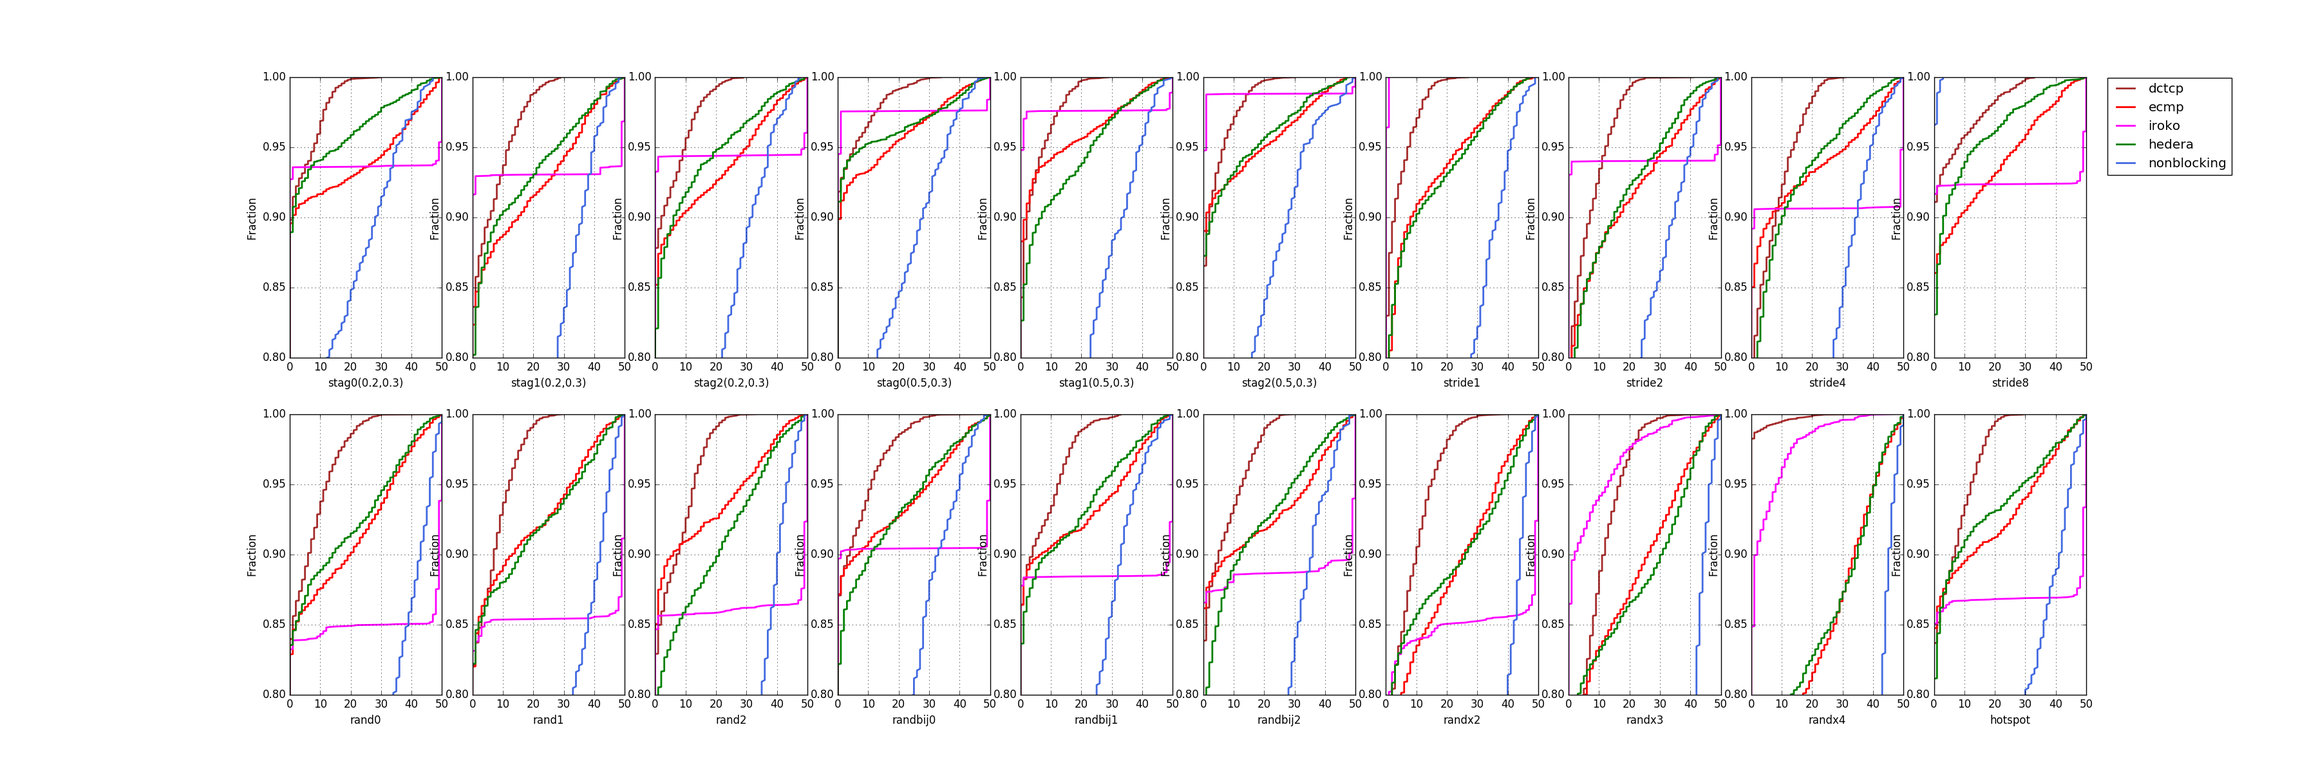
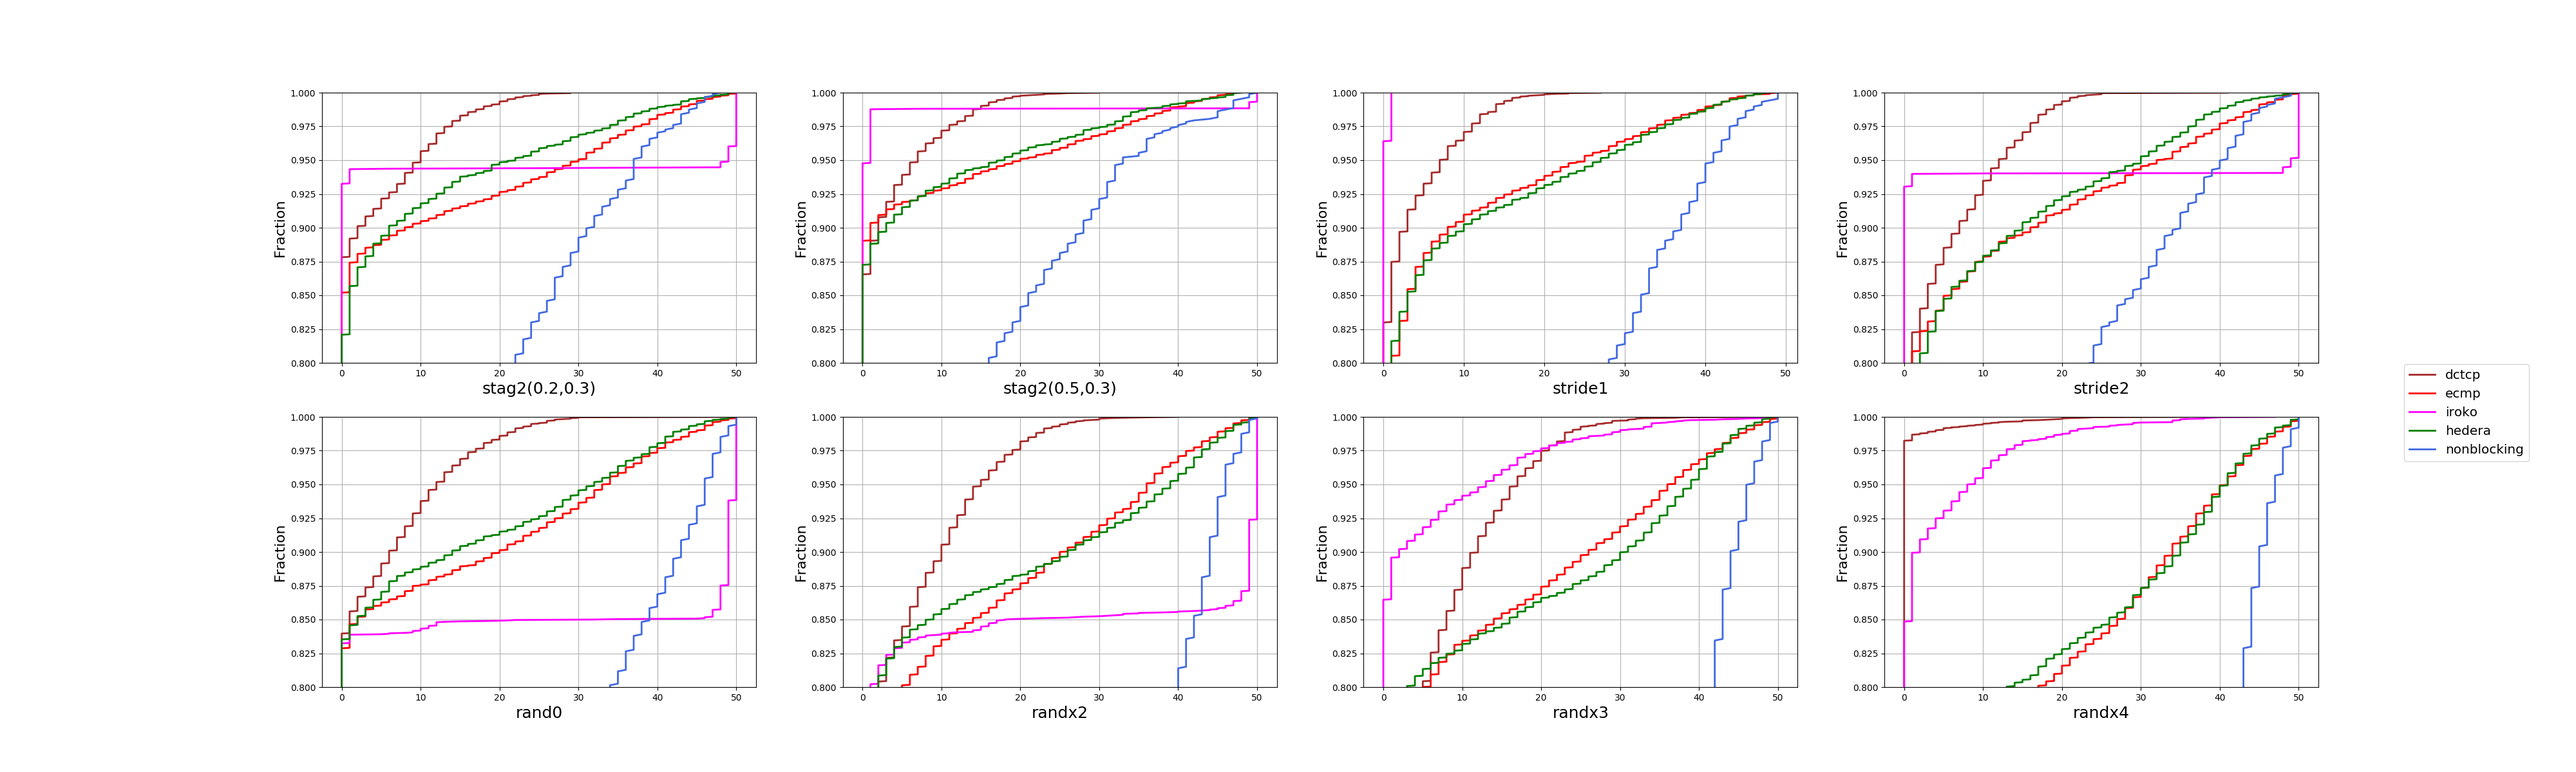
Resize plot_qlen

Changed region(s): [[0.0933, 0.0925, 0.9644, 0.9558], [0.9333, 0.4625, 0.9644, 0.5858]]

diff --git a/Iroko/plot_qlen.py b/Iroko/plot_qlen.py
@@ -85,12 +85,12 @@ def plot_results(args):
         hedera_input = args.files + '/fattree-hedera/%s/qlen.txt' % t
 
         fig = plt.figure(1)
-        fig.set_size_inches(36, 12)
+        fig.set_size_inches(40, 12)
         ax = fig.add_subplot(2, len(traffics) / 2, i + 1)
         ax.yaxis.grid()
         plt.ylim((0.8, 1.0))
-        plt.ylabel("Fraction")
-        plt.xlabel(labels[i])
+        plt.ylabel("Fraction", fontsize=16)
+        plt.xlabel(labels[i], fontsize=18)
         plot_queue([dctcp_input, ecmp_input, iroko_input, hedera_input, nb_input],
                    ["dctcp", "ecmp", "iroko", "hedera", "nonblocking"], t)
     plt.legend(bbox_to_anchor=(1.5, 1.22), loc='upper right', fontsize='x-large')
